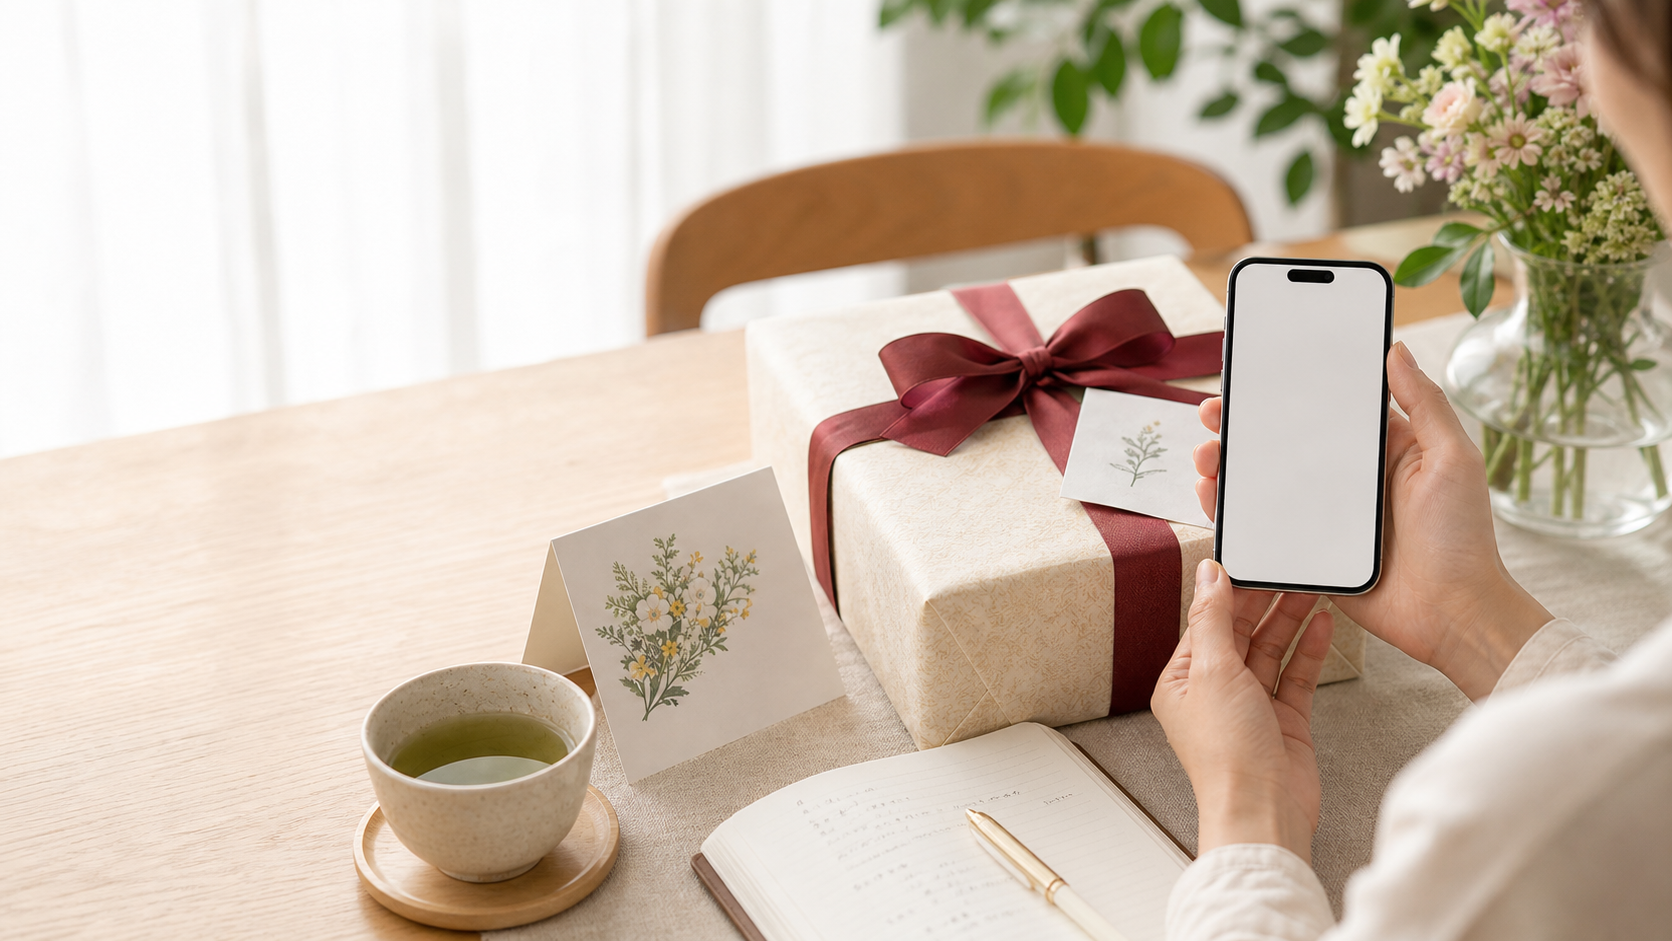
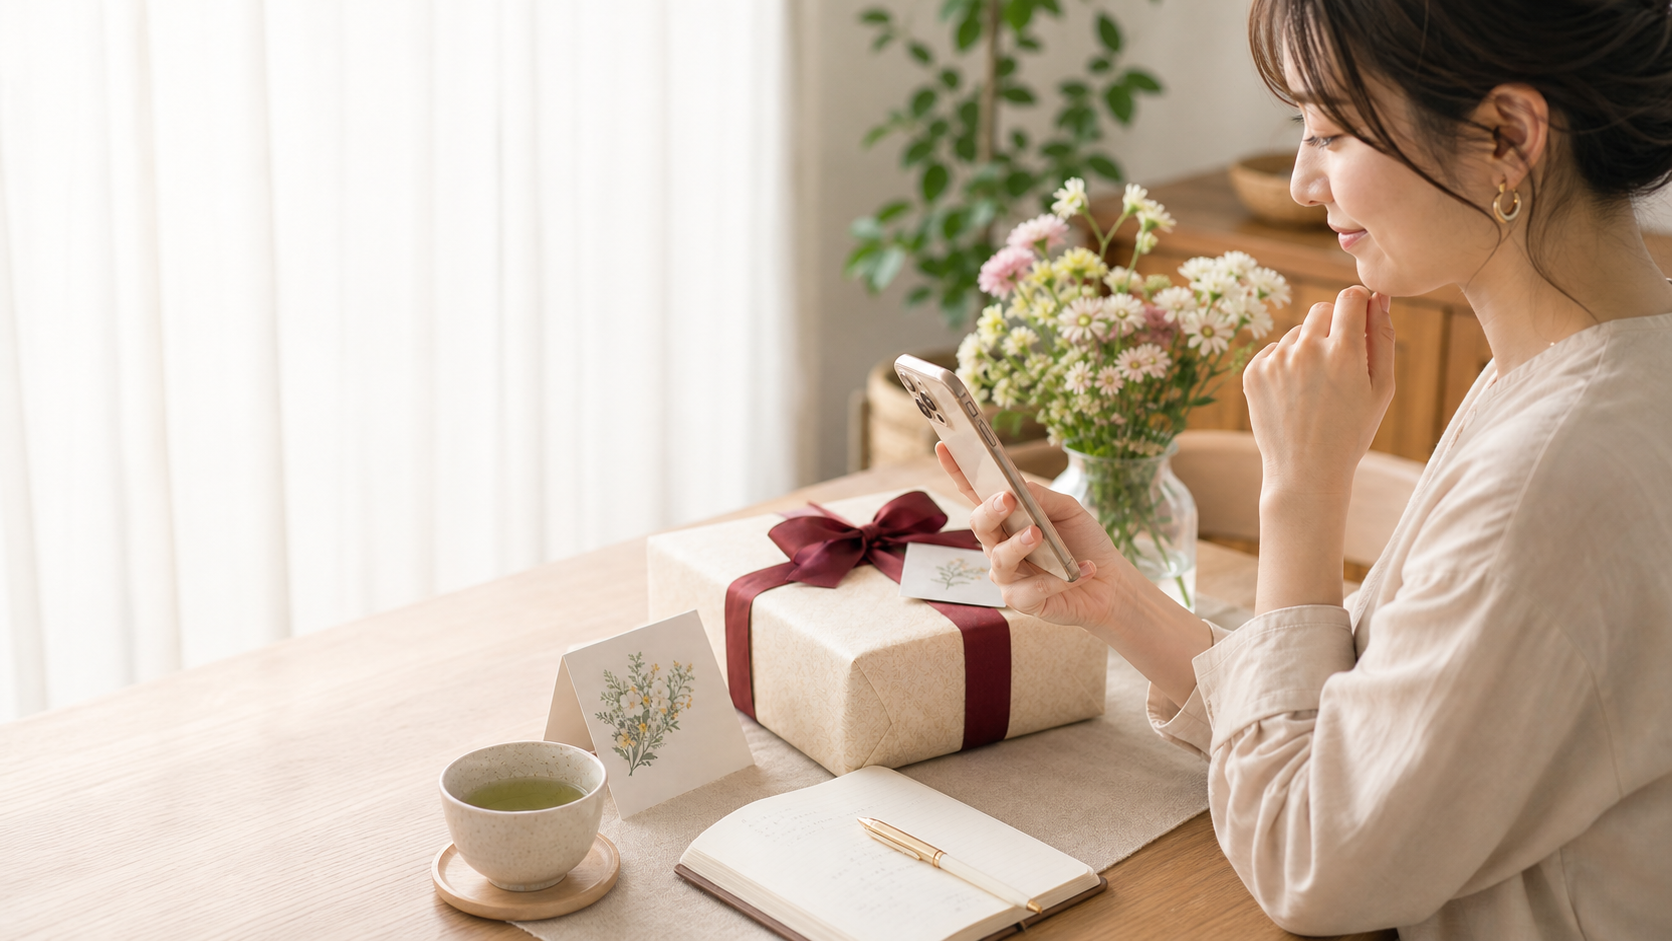
Use direct gpt-image2 LP photos

diff --git a/index.html b/index.html
@@ -527,6 +527,10 @@
       object-position: center;
     }
 
+    .gallery-card.tall img {
+      object-fit: cover;
+    }
+
     .gallery-card div {
       flex: 1;
       padding: 17px;
@@ -972,7 +976,7 @@
         <figure class="image-card">
           <picture>
             <source media="(max-width: 640px)" srcset="assets/usage-recording.png">
-            <img src="assets/hero-flyer.png" alt="贈答メモリーの利用シーンとキャッチコピーを入れたメインビジュアル" width="1672" height="941">
+            <img src="assets/hero-flyer.png" alt="贈答メモリーの利用シーン。贈り品、カード、スマートフォンを並べた食卓の写真" width="1672" height="941">
           </picture>
           <figcaption>写真・お相手・日付・<span class="keep">リマインダー</span>を端末内で記録する、贈答メモリーの画面イメージ。</figcaption>
         </figure>
@@ -1135,7 +1139,7 @@
             </div>
           </article>
           <article class="gallery-card tall card">
-            <img src="assets/reminder-flyer.png" alt="返礼忘れを防ぐ通知機能とPRO価格のプロモーション画像" width="1122" height="1402">
+            <img src="assets/reminder-flyer.png" alt="誕生日や配送予定を思い出すための、ギフトとカレンダー手帳の使用シーン" width="1122" height="1402">
             <div>
               <h3>返礼忘れを防ぐ</h3>
               <p>必要なタイミングで「用意しましたか？」を通知します。</p>
@@ -1169,7 +1173,7 @@
           </div>
         </div>
         <figure class="image-card">
-          <img src="assets/reminder-flyer.png" alt="大切な予定を残せることを伝える通知機能とPRO価格のプロモーション画像" width="1122" height="1402">
+          <img src="assets/reminder-flyer.png" alt="大切な予定を残せることを伝える、ギフトと予定管理の使用シーン" width="1122" height="1402">
         </figure>
       </div>
     </section>
@@ -1196,7 +1200,7 @@
           </div>
         </div>
         <figure class="image-card screen-showcase">
-          <img src="assets/app-ui-mockup.webp" alt="端末内で贈答履歴を扱う贈答メモリーの画面イメージ" width="1024" height="1024">
+          <img src="assets/privacy-local-scene.png" alt="端末内で贈答履歴を管理する安心感を表す、スマートフォンと贈答カードの写真" width="1254" height="1254">
         </figure>
       </div>
     </section>

diff --git a/manual.html b/manual.html
@@ -1103,7 +1103,7 @@
     <section id="reminder" class="manual-section alt" aria-labelledby="reminder-title">
       <div class="section-inner screen-grid">
         <figure class="image-frame">
-          <img src="assets/reminder-flyer.png" alt="贈答メモリーのリマインダー通知機能を説明する画像" width="1122" height="1402">
+          <img src="assets/reminder-flyer.png" alt="誕生日や配送予定を思い出すための、ギフトとカレンダー手帳の使用シーン" width="1122" height="1402">
           <figcaption>リマインダー通知は、用意する日を忘れないためのPRO機能です。</figcaption>
         </figure>
         <div class="manual-card">
